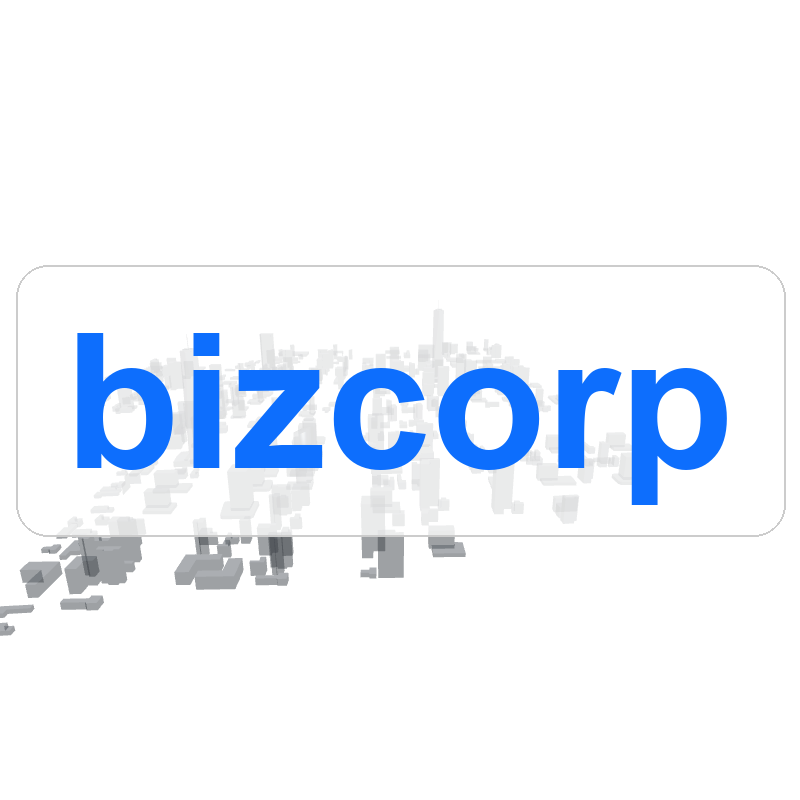
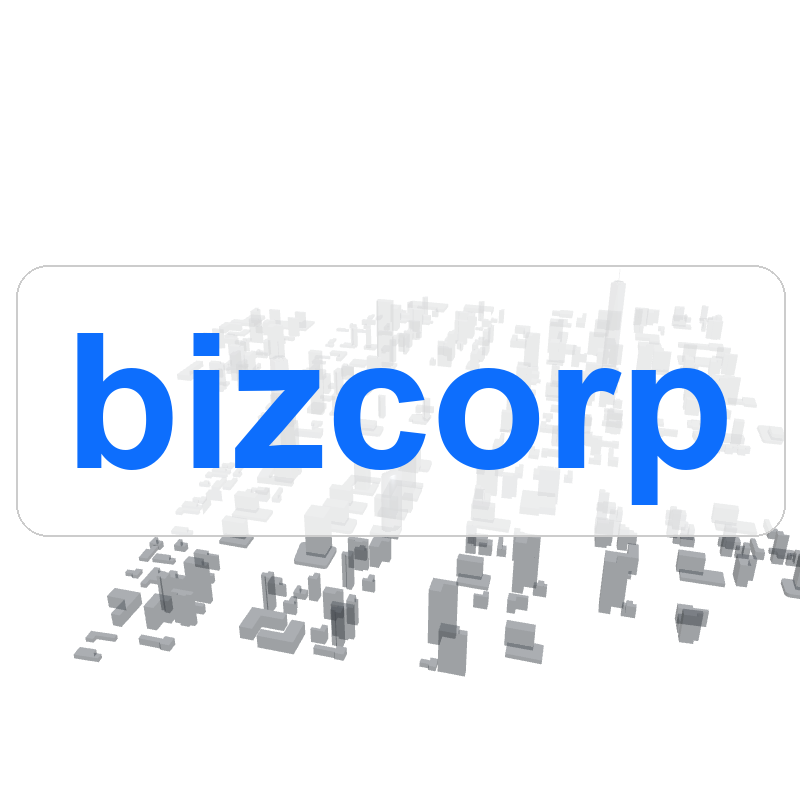
feat: 50% zoom on city background for OG images, bump cache v8

diff --git a/frontend/index.html b/frontend/index.html
@@ -12,7 +12,7 @@
     />
     <meta
       property="og:image"
-      content="https://www.wingshot.dev/og-image.png?v=7"
+      content="https://www.wingshot.dev/og-image.png?v=8"
     />
     <meta property="og:url" content="https://www.wingshot.dev" />
     <meta property="og:type" content="website" />
